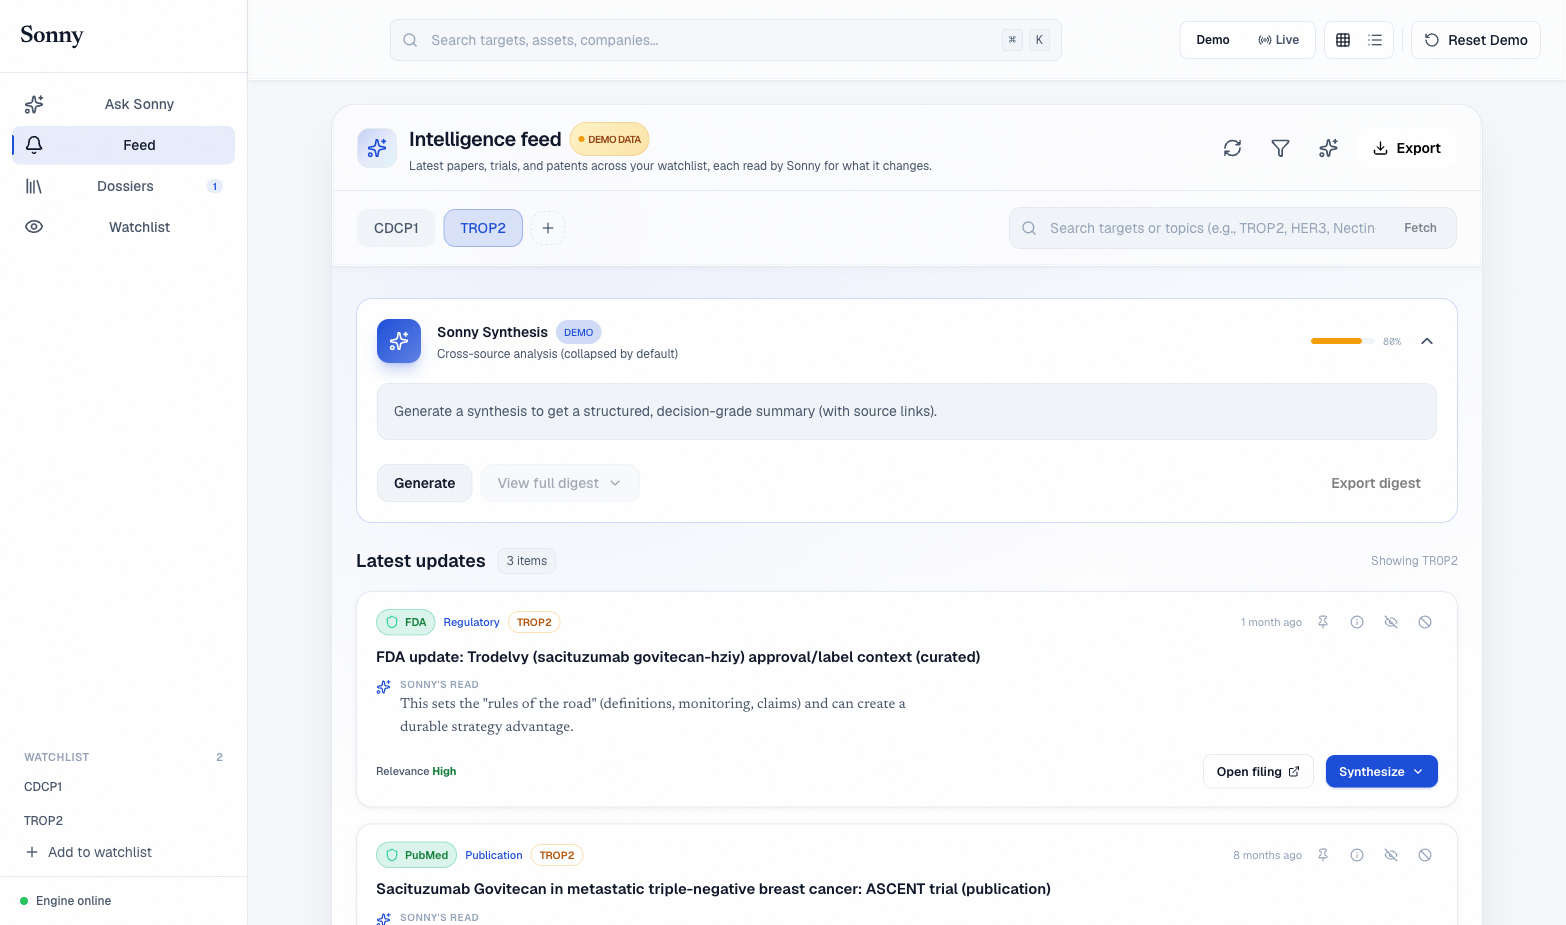
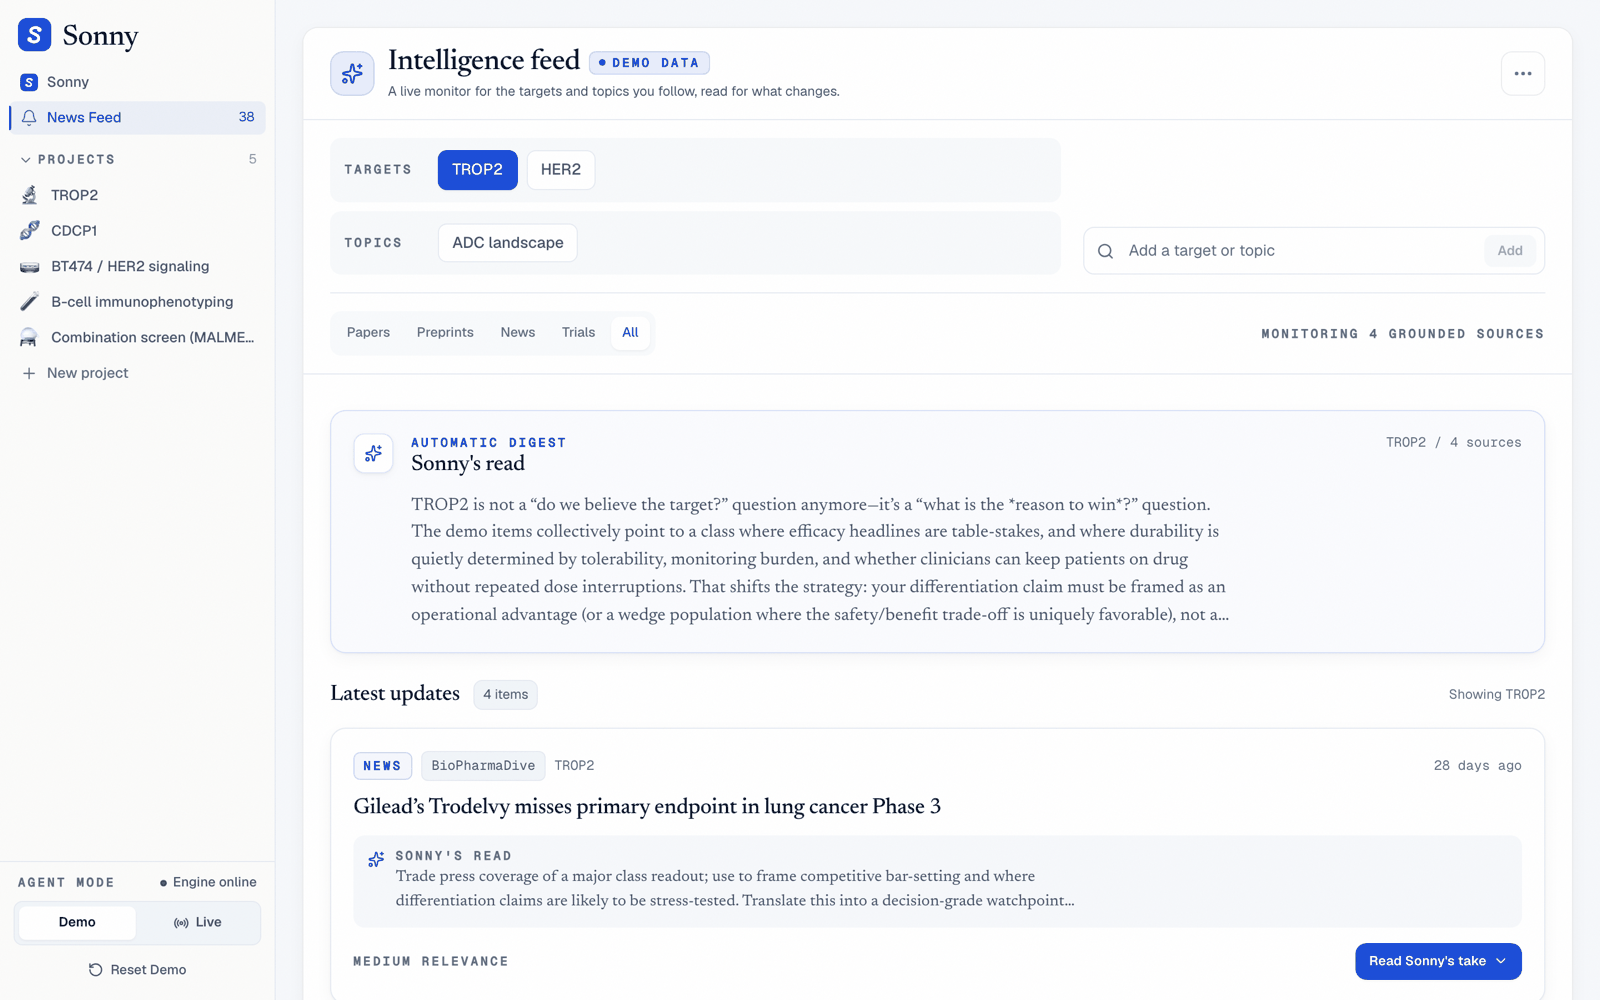
Bring the README in line with what the product does now (#24)
* docs: bring the README in line with what the product does now

Three things had drifted.

Verdict framing. The README led with a "conclusion-first GO / WATCH /
NO-GO dossier". The product moved away from that: the capability card
already reads "a cited, balanced assessment - the case for and against",
and a real run now opens with the framing and the key uncertainty, then
the bull case and the risks. The engine still carries a verdict field,
but it is no longer what the report leads with, and describing the
product as verdict-first oversells what it claims to know.

Missing half the product. IHC, flow cytometry, and western blot
workbenches all ship on main and the README did not mention them once.
The flow workbench in particular has interactive gating that recomputes
every downstream number live, which is one of the more distinctive
things here.

Stale naming and stack. Dossier was renamed to Report in the UI in
486b475; the README still said dossier throughout. The Agent/LLM line
listed Gemini and Perplexity and omitted the OpenAI-compatible path that
runs today against Groq or a local Ollama.

Not touched: docs/screenshots/*.png are from 7 July and predate the
current styling, the evidence viewer, and the IHC workbench. They want
retaking, which is its own pass.

* docs: drop the verdict framing from the package description too

Same stale line as the README and the GitHub description field: it
promised conclusion-first GO/WATCH/NO-GO reports, which is not what the
[…]

diff --git a/src/lib/research/deepResearchViewModel.test.ts b/src/lib/research/deepResearchViewModel.test.ts
@@ -27,7 +27,10 @@ describe('deep research workbook mapping', () => {
       sections: [{ id: 'biology', title: 'Target biology', takeaway: 'Strong expression.' }],
     });
 
-    expect(mapped.report.summary).toEqual(['Watch the target.', 'Executive summary']);
+    // thesis is deliberately NOT in the summary: executiveRead already carries
+    // the framing and the bottom line, so emitting both repeats the opening
+    // verbatim. Dropped in 486b475; this expectation was never updated.
+    expect(mapped.report.summary).toEqual(['Executive summary']);
     expect(mapped.report.figures).toEqual([]);
     expect(mapped.contentSections).toEqual([
       { id: 'biology', title: 'Target biology', content: 'Strong expression.' },

diff --git a/src/components/research/CapabilityCards.tsx b/src/components/research/CapabilityCards.tsx
@@ -27,7 +27,7 @@ interface Capability {
 }
 
 const DEEP_RESEARCH_TEMPLATE: ResearchTemplate = {
-  prompt: 'Run a full due-diligence report on [target]. I want a conclusion-first, balanced assessment - the case for and the case against - grounded in literature and public data, with every claim cited to source.',
+  prompt: 'Run a full due-diligence report on [target]. I want a balanced assessment - the case for and the case against - grounded in literature and public data, with every claim cited to source.',
   target: undefined,
   contextChip: 'DepMap · GTEx · PubMed',
 };

diff --git a/docs/design/SONNY_DASHBOARD_DESIGN.md b/docs/design/SONNY_DASHBOARD_DESIGN.md
@@ -10,8 +10,8 @@ Trustworthy, not flashy. No "AI dashboard" theatrics.
 
 ## 1. Atmosphere
 
-Structured, professional, conclusion-first.
-A clean light surface with hairline borders, restrained elevation, and disciplined density: efficient where it lists (watchlist, feed, runs) and generous where it concludes (the verdict and executive read get room to breathe).
+Structured, professional, evidence-first.
+A clean light surface with hairline borders, restrained elevation, and disciplined density: efficient where it lists (watchlist, feed, runs) and generous where it argues (the executive read and the figures get room to breathe).
 The look should read as a serious instrument a scientist trusts, not a marketing dashboard.
 
 Calibration: Density 6 (efficient, not cockpit-crammed), Variance 2 (structured, predictable), Motion 3 (restrained, functional).
@@ -28,7 +28,7 @@ Neutrals (slate ramp) - final token values from the locked mocks:
 - **Subtle** (#F1F5F9, slate-100) - hover rows, quiet panels (KOL, quotes)
 - **Border** (#E6EBF2) - 1px hairline structure. Border-driven separation over heavy shadows.
 - **Border-soft** (#EEF2F7) - internal dividers inside a card (lighter than the card's outer border).
-- **Primary text / ink** (#0F172A, slate-900) - headings, verdict, key figures
+- **Primary text / ink** (#0F172A, slate-900) - headings, key figures
 - **Secondary text** (#475569, slate-600) - body, metadata (minimum for body; never lighter)
 - **Muted text** (#94A3B8, slate-400) - captions, placeholders, micro labels ONLY (never body)
 
@@ -36,12 +36,12 @@ Primary (single accent):
 - **Primary / CTA** (#1D4ED8, blue-700) - primary buttons, active nav, links, focus rings. Hover #1E40AF.
 - **Primary tint** (#EFF6FF, blue-50) - active nav fill, selected states.
 
-Semantic status (functional only, never decorative) - these carry the GO/WATCH/NO-GO meaning. Each has a fill (the pill), a darker text shade (for status text on tint), and a tint (quiet backgrounds):
-- **Positive / GO** (#16A34A, green-600; text #15803D; tint #DCFCE7) - go verdict, supported, good developability
-- **Caution / WATCH** (#D97706, amber-600; text #B45309; tint #FEF3C7) - watch verdict, caution, moderate risk
-- **Critical / NO-GO** (#DC2626, red-600; text #B91C1C; tint #FEE2E2) - no-go verdict, severe risk, refuted
+Semantic status (functional only, never decorative) - these carry section confidence (RAG), not a recommendation. Each has a fill (the dot or pill), a darker text shade (for status text on tint), and a tint (quiet backgrounds). The token names remain `go` / `watch` / `nogo` in Tailwind for continuity:
+- **Positive / green** (#16A34A, green-600; text #15803D; tint #DCFCE7) - well supported, good developability
+- **Caution / amber** (#D97706, amber-600; text #B45309; tint #FEF3C7) - caution, moderate risk, thin evidence
+- **Critical / red** (#DC2626, red-600; text #B91C1C; tint #FEE2E2) - severe risk, refuted, contradicted
 
-Verdict pill = the single largest, boldest signal on a run or dossier: GO green fill / WATCH amber fill / NO-GO red fill, white text.
+These mark how well a *section* is supported. There is no verdict pill: the report does not hand down a GO/WATCH/NO-GO call, so nothing in the layout should imply one. Status colour stays at dot and chip scale.
 
 Contrast: all text meets WCAG AA (4.5:1). Color is never the only signal - RAG dots always pair with a text label.
 
@@ -61,7 +61,7 @@ Deliberately kept despite the dashboard-serif ban, and allowed ONLY here: the So
 Two jobs: (1) grounded identifiers - PMID / NCT / ENSG / patent no. / SEQ IDs / antibody sequences; (2) KPI numbers and tabular figures where alignment and the "precise instrument" read matter (the papers/evidence/tools counters, KOL weights). This is the "grounded and precise" signal - it visually marks every real, traceable token and every hard number.
 - **Micro labels:** Geist 600, 11px, 0.05em tracking, uppercase, muted slate - GLASS-BOX TRACE, WATCHLIST, KOL & INSTITUTIONAL TERRAIN.
 
-Scale (desktop): display/verdict 28-32px/700 (Geist) with serif run/section titles 19-26px/600 (Newsreader); H1 22px/600; H2 18px/600; body 15px/400 (line-height 1.6, measure capped ~70ch); small 13px; micro 11px.
+Scale (desktop): display 28-32px/700 (Geist) with serif run/section titles 19-26px/600 (Newsreader); H1 22px/600; H2 18px/600; body 15px/400 (line-height 1.6, measure capped ~70ch); small 13px; micro 11px.
 
 Fallback order matters: every stack names a real fallback (Inter for sans, Georgia for serif, JetBrains Mono/ui-monospace for mono) so first paint never lands on Times or a system default.
 
@@ -84,7 +84,7 @@ Two surface treatments layered over the flat slate/white base - subtle enough to
 - **Composer.** Liquid-glass floating bar: white surface, `rounded-xl`, slate-200 border that becomes blue-700 on focus (focus ring), inner-light refraction + soft shadow, faint radial atmosphere behind it. Left upload button opens a menu that routes the file to a skill (Research paper / Patent - extract sequences). Enter to run.
 - **Capability cards.** White, slate-200 border, `rounded-xl`, hover = blue-200 border + faint lift. Status line: green dot "Available", amber/bronze dot "Skill - available", muted "Coming soon" (dashed border, reduced opacity). 2-column grid (never a 3-equal-card row).
 - **Glass-box trace.** Bordered panel. Steps as a vertical checklist: done = green check, current = blue spinner ring, future = hollow slate ring. Specialists in a 2-column grid, each gaining a RAG dot on completion. Counters (papers / evidence / tools) as quiet KPI chips with Geist Mono figures. Legible and calm - this is the trust surface, not a light show. Log is virtualized/capped.
-- **Dossier.** Conclusion-first: the verdict pill is the largest element, then the executive read (Inter, ~70ch, relaxed leading), then RAG section chips (pill + colored dot + label), then KOL terrain in a slate-50 panel (PI, institution, weight), then references (mono ids, linked). Actions right-aligned.
+- **Report.** Evidence-first: the executive read leads (Inter, ~70ch, relaxed leading) carrying the framing and the key uncertainty, then the bull case and the risks, then the figures, then RAG section chips (pill + colored dot + label), then KOL terrain in a slate-50 panel (PI, institution, weight), then references (mono ids, linked). Actions right-aligned.
 - **Patent result.** SEQ ID chip + type + mono sequence rows; "Grounded to source PDF"; Export FASTA (primary).
 - **Watchlist / feed rows.** Hairline-separated list rows, status dot + label + metadata + optional badge; hover slate-50; row highlight.
 - **Drill-in.** Right-side drawer (~820px, full-screen < 768px), slide-in, scrim.
@@ -114,7 +114,7 @@ Two surface treatments layered over the flat slate/white base - subtle enough to
 
 ## 8. Anti-Patterns (banned)
 
-- No fabricated data or metrics. Every figure (papers, evidence, references, RAG, verdict, KOL weights, SEQ IDs) is grounded to a real engine event or evidence id - Sonny's "no token, no ship" made visual. No invented uptime/latency/percent stats, no "SYSTEM // 2025" labels.
+- No fabricated data or metrics. Every figure (papers, evidence, references, RAG, KOL weights, SEQ IDs) is grounded to a real engine event or evidence id - Sonny's "no token, no ship" made visual. No invented uptime/latency/percent stats, no "SYSTEM // 2025" labels.
 - No emojis as UI - SVG icons only (Lucide/Heroicons, one set, 24px viewBox, consistent sizing).
 - No purple/indigo "AI" accents, neon, glows, gradient headers, oversaturated fills, pure black.
 - No mono/serif headings; no hierarchy-by-size-alone.
@@ -130,7 +130,7 @@ Two surface treatments layered over the flat slate/white base - subtle enough to
 - Fonts: add Geist, Newsreader, Geist Mono (Google Fonts / fontsource); keep Inter + JetBrains Mono as fallbacks. Tailwind `fontFamily: { sans: ['Geist','Inter',...], display: ['Newsreader','Georgia',serif], mono: ['Geist Mono','JetBrains Mono',ui-monospace,...] }`. Load only the weights used (Geist 400/500/600/700, Newsreader 400/500/600 with opsz, Geist Mono 400/500) to keep first paint fast.
 - Encode the palette as Tailwind theme tokens (page/surface/subtle/border/border-soft/ink + primary + semantic go/watch/nogo with fill/text/tint) so components reference roles, not raw hex. Token values are the locked ones in Section 2 (page #F6F8FB, border #E6EBF2), matching the mocks exactly.
 - Material helpers: define reusable classes/utilities for `.glass` (liquid-glass refraction), the soft card shadow, the tactile `:active` press, and the fixed grain overlay - so the treatments stay consistent and are applied by role, not re-typed per component.
-- Information architecture (composer, glass-box, conclusion-first dossier, watchlist, feed, dossier library, drill-in) carries over from the mock; only the visual language is this professional slate/blue system, not the warm Ponder one.
+- Information architecture (composer, glass-box, report, watchlist, feed, report library, drill-in) carries over from the mock; only the visual language is this professional slate/blue system, not the warm Ponder one.
 
 ---
 

diff --git a/README.md b/README.md
@@ -2,9 +2,11 @@
 
 **A biotech target/asset diligence dashboard with a grounded, glass-box research agent.**
 
-LUMINA is the workspace where a skeptical scientist or BD/investment team asks a hard question about a drug target or asset and watches the reasoning happen. Its research agent, **Sonny**, runs live in front of you, streaming every source it reads and every inference it makes, then delivers a conclusion-first **GO / WATCH / NO-GO** dossier where each figure traces back to a real citation.
+LUMINA is the workspace where a skeptical scientist or BD/investment team asks a hard question about a drug target or asset and watches the reasoning happen. Its research agent, **Sonny**, runs live in front of you, streaming every source it reads and every inference it makes, then returns a balanced assessment - the case for and the case against - where every claim traces back to a real citation.
 
-The product bet: for high-stakes biotech decisions, a transparent reasoning trace and disciplined citations beat a confident black-box answer.
+Alongside the literature work, LUMINA runs **wet-lab workbenches**: reproducible analyses of your own IHC, flow cytometry, and western blot data, with the same show-your-working discipline.
+
+The product bet: for high-stakes biotech decisions, a transparent reasoning trace and disciplined citations beat a confident black-box answer. The agent's job is to sharpen the question and lay out the evidence, not to hand down a verdict.
 
 ![LUMINA home](docs/screenshots/home.png)
 
@@ -12,12 +14,13 @@ The product bet: for high-stakes biotech decisions, a transparent reasoning trac
 
 - **Ask Sonny.** A research composer takes a target or asset question and runs a grounded deep-research pass.
 - **Glass-box trace.** The agent's reasoning streams live over server-sent events. You see the sources, tool calls, and intermediate findings as they happen, not just the final answer.
-- **Conclusion-first dossiers.** Output leads with a GO / WATCH / NO-GO verdict, then the drivers, uncertainties, and triggers beneath it. Every claim carries a reference; the header shows the grounding ("Grounded / N refs").
-- **Dossier library.** Completed dossiers are saved, searchable, and re-openable, each card showing its reference count.
+- **Balanced, cited reports.** Six specialists cover target biology, mechanism, indication, clinical landscape, competitive/IP, and developability. Output leads with the framing and the key uncertainty, then the bull case and the risks beneath it. Every claim carries a reference; the header shows the grounding ("Grounded / N refs").
+- **Wet-lab workbenches.** IHC (DAB deconvolution, H-score, % positivity), flow cytometry (interactive gating you can drag, with every downstream number recomputed live), and western blot (background-corrected densitometry against a loading control).
+- **Report library.** Completed reports are saved, searchable, and re-openable, each card showing its reference count.
 - **Watchlist + Intelligence Feed.** Track targets and assets and get a monitored feed of new literature, trials, and filings, distilled into digests.
-- **Investment memo + PDF export.** Turn a dossier into a shareable memo.
+- **Investment memo + PDF export.** Turn a report into a shareable memo.
 
-![Dossier library](docs/screenshots/dossiers.png)
+![Report library](docs/screenshots/dossiers.png)
 
 ![Intelligence feed](docs/screenshots/feed.png)
 
@@ -34,14 +37,14 @@ The result is a live reasoning view with no extra network hop and no separate de
 ```
 Browser (React)  ──SSE──►  Express backend  ──MessagePort──►  Sonny engine (worker thread)
      ▲                          │                                    │
-     └────── dossier JSON ──────┘                          MCP retrieval tools
+     └────── report JSON ───────┘                          MCP retrieval tools
 ```
 
 ## Tech stack
 
 - **Frontend:** React 19, TypeScript, Vite, React Router, Tailwind CSS, TanStack Query, Zustand, Framer Motion
 - **Backend:** Express (local dev/runtime), Vercel serverless functions (deployed API)
-- **Agent/LLM:** Anthropic Claude, Google Gemini, Perplexity, orchestrated through the Sonny engine + MCP tools
+- **Agent/LLM:** pluggable backend - Anthropic, or any OpenAI-compatible endpoint (Groq, local Ollama) - orchestrated through the Sonny engine + MCP tools
 - **Testing:** Vitest
 
 ## Running it
@@ -61,7 +64,7 @@ See `docs/getting-started/START_GUIDE.md` and `docs/getting-started/API_SETUP.md
 
 ## Repository layout
 
-- `src/` — React app (dashboard, Sonny composer, glass-box trace, dossiers, Intelligence Feed)
+- `src/` — React app (dashboard, Sonny composer, glass-box trace, reports, workbenches, Intelligence Feed)
 - `server/` — Express backend and the Sonny worker seam
 - `api/` — Vercel serverless functions (deployed API)
 - `lib/` — shared client/agent logic

diff --git a/docs/architecture/ARCHITECTURE_REVIEW.md b/docs/architecture/ARCHITECTURE_REVIEW.md
@@ -1,5 +1,13 @@
 # LUMINA Architecture Review
 
+> **Historical document.** This review captures an earlier design and is kept for
+> context, not as a description of the current build. It describes a dark UI (the
+> app is light), dashboard tiles that were never built (`ExpressionBiology`,
+> `BDExecutiveSummary`, `DealLandscape`), and a `StrategicRecommendation` /
+> Go-No-Go output that the product deliberately no longer produces - reports lay
+> out the case for and against rather than handing down a call. For the current
+> system see the README and `docs/design/SONNY_DASHBOARD_DESIGN.md`.
+
 ## Executive Summary
 
 LUMINA is an enterprise-grade biotech intelligence platform designed for pharmaceutical R&D decision-making. It combines a sophisticated multi-agent AI system with a sleek, Apple-inspired dark UI to deliver target validation, competitive analysis, and strategic recommendations.
